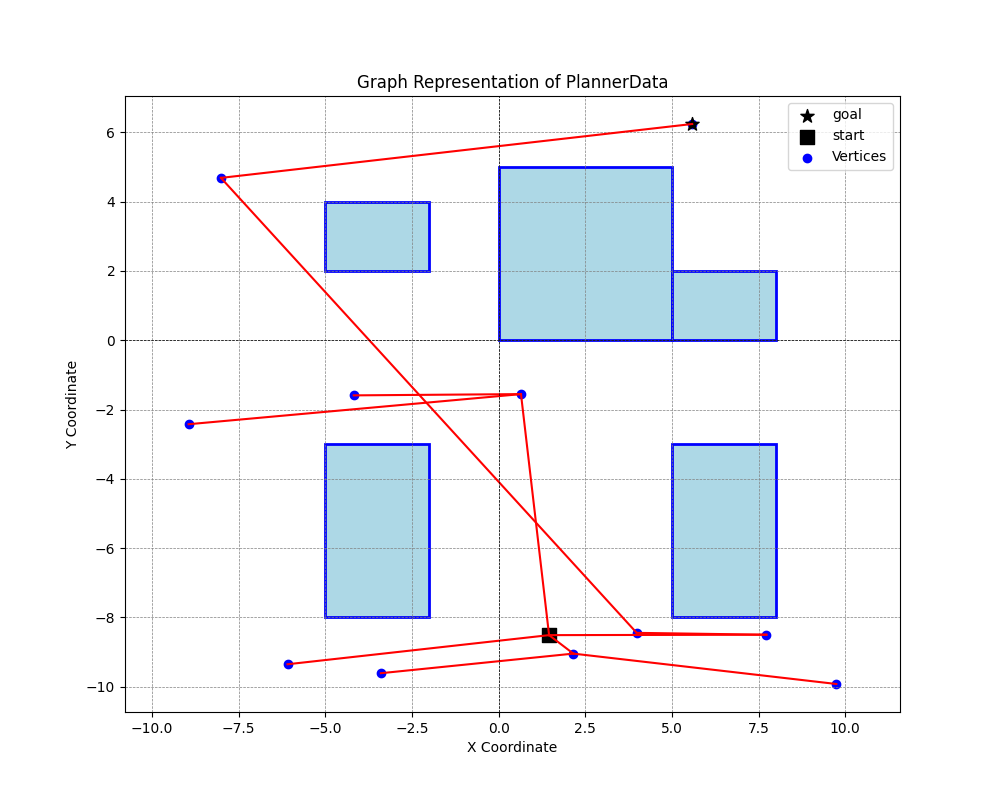
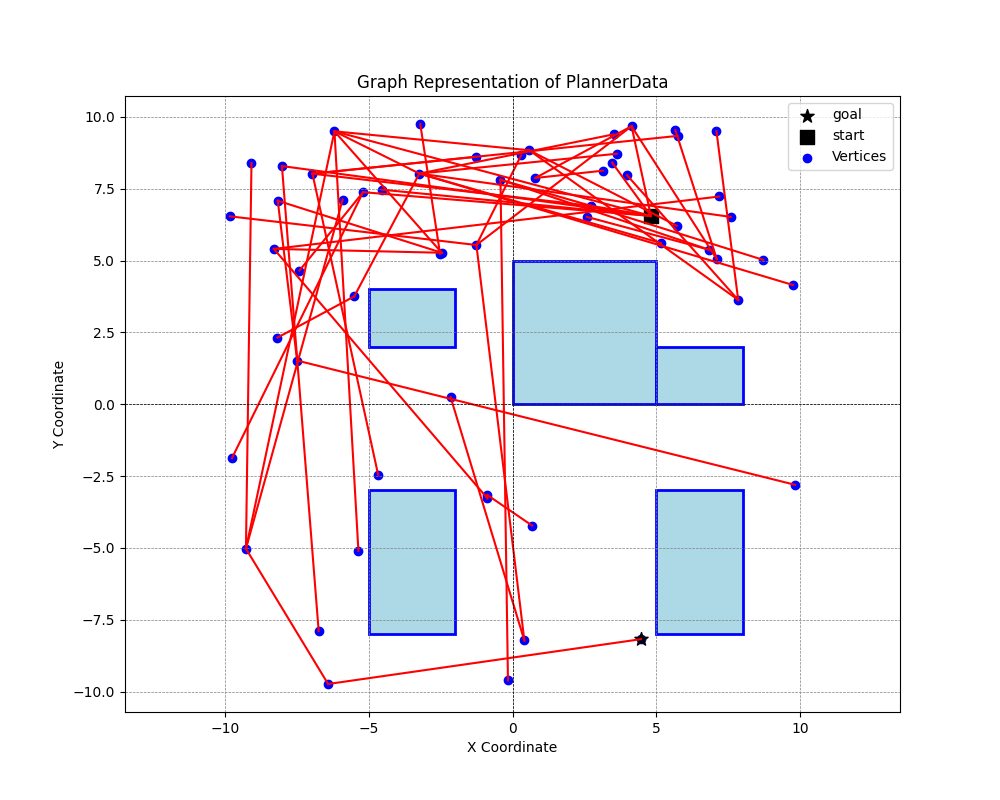
updated sample visualizations and notes

diff --git a/src/visualize.py b/src/visualize.py
@@ -4,190 +4,135 @@ import numpy as np
 
 data = """
 OBSTACLES
-[-10,-3,8,6]
-[2,-3,8,6]
-[-2,-10,3,5]
-[-1,7,5,2]
+[0,0,5,5]
+[5,0,3,2]
+[-5,2,3,2]
+[-5,-8,3,5]
+[5,-8,3,5]
 VERTICES
-(6.1286,9.96771)
-(2.29839,-8.14192)
-(6.54234,-8.42392)
-(7.29384,-5.52884)
-(5.56398,-9.21473)
-(9.02901,-6.25211)
-(5.10615,-6.52125)
-(6.75992,-6.41515)
-(-6.86194,-3.56163)
-(7.64124,-4.84755)
-(0.336037,-2.68571)
-(8.46588,-5.84534)
-(8.79806,-5.2554)
-(9.28287,-3.64216)
-(1.60169,-3.9864)
-(6.46104,-5.32222)
-(6.29002,-4.5267)
-(5.08736,-5.31469)
-(6.11338,-6.59213)
-(6.26703,-8.48126)
-(0.978633,-3.05376)
-(9.51221,-5.20651)
-(2.60682,-4.26794)
-(6.94158,-5.81983)
-(8.59841,-3.53731)
-(6.76768,-8.42559)
-(6.11898,-7.96324)
-(8.59907,-3.81939)
-(5.96986,-5.71895)
-(5.87814,-8.82988)
-(6.92157,-4.45866)
-(4.80425,-6.66832)
-(4.78732,-5.57372)
-(5.472,-3.60008)
-(8.69749,-9.47031)
-(5.20446,-3.77211)
-(7.52818,-4.16062)
-(3.69117,-4.44452)
-(7.4854,-4.2699)
-(9.6867,-9.28099)
-(6.03411,-7.59747)
-(-1.47399,5.00707)
-(-7.12522,9.34394)
-(-6.73268,-7.52026)
-(4.471,-4.49756)
-(-7.14832,-3.51528)
-(-5.60951,-8.56514)
-(-2.80035,-3.85269)
-(-5.62032,-3.77922)
-(-8.93852,-9.27911)
-(-3.08579,-3.43656)
-(-6.01525,-8.25948)
-(-6.5764,-3.61584)
-(-5.22293,-9.78871)
-(2.66332,-3.39152)
-(-4.16126,-4.16673)
-(-7.42711,-7.37977)
-(-9.68892,-3.51182)
-(-0.715141,-1.68699)
-(0.492447,-2.88914)
-(3.8939,-4.83411)
-(0.918087,-1.84117)
-(1.69643,0.949311)
-(-0.346274,-1.91201)
-(-0.126375,-3.82127)
-(-1.77657,-4.69119)
-(9.30133,-9.17499)
-(-1.49486,-0.879237)
-(-3.4238,-3.75593)
-(-1.52986,0.926431)
-(1.9538,-9.78717)
-(4.83144,-9.99153)
-(3.60543,-7.87452)
-(1.92296,-7.6562)
-(2.4612,-7.35118)
-(0.913996,-4.1115)
-(9.49012,-6.83797)
-(8.63757,-8.35217)
-(9.80498,-7.14005)
-(7.92971,-8.60475)
-(8.90892,-8.61286)
-(1.67647,-4.02759)
-(1.72352,-6.55544)
-(3.95942,-3.55486)
-(3.00388,-3.43)
-(1.48853,-6.04512)
-(4.61906,-4.31113)
+(4.45794,-8.17775)
+(4.80789,6.55316)
+(-6.20492,9.49707)
+(-2.47115,5.27061)
+(2.71777,6.90451)
+(4.13475,9.67472)
+(-1.26495,5.54009)
+(0.573649,8.83779)
+(-5.20816,7.37893)
+(0.289094,8.65741)
+(-6.97095,8.02195)
+(-1.27552,8.6111)
+(0.783781,7.87271)
+(-3.25,8.02629)
+(-4.56067,7.46667)
+(-0.42769,7.81265)
+(-2.53104,5.24399)
+(0.403727,-8.2214)
+(-2.16231,0.245641)
+(-5.51622,3.75139)
+(-3.21861,9.75145)
+(-7.5036,1.51871)
+(9.82429,-2.80462)
+(-0.166493,-9.61074)
+(-0.891715,-3.15514)
+(0.673154,-4.2232)
+(-6.42528,-9.73703)
+(-9.77032,-1.87309)
+(-8.17777,7.08158)
+(-8.19072,2.31625)
+(7.84646,3.62896)
+(7.08854,9.50132)
+(3.97394,7.97257)
+(3.45491,8.41127)
+(5.74187,9.33788)
+(3.50956,9.39055)
+(-8.31272,5.40448)
+(7.19487,7.22878)
+(7.10093,5.04694)
+(5.65927,9.53727)
+(5.70871,6.21081)
+(3.62135,8.71644)
+(3.13236,8.12583)
+(6.82285,5.37944)
+(2.57612,6.51991)
+(-9.28474,-5.02695)
+(-9.09224,8.39583)
+(-5.91935,7.1203)
+(-7.42167,4.65272)
+(-9.84151,6.53788)
+(-8.03282,8.28759)
+(9.7526,4.14871)
+(8.71281,5.02421)
+(5.16315,5.60663)
+(7.58834,6.51837)
+(-5.37098,-5.10271)
+(-4.68129,-2.46794)
+(-0.882081,-3.27521)
+(-6.75381,-7.89605)
 GOALS
-(6.1286,9.96771)
+(4.45794,-8.17775)
 STARTS
-(2.29839,-8.14192)
+(4.80789,6.55316)
 EDGES
-0 0 0 0 0 0 0 0 0 0 0 0 0 0 0 0 0 0 0 0 0 0 0 0 0 0 0 0 0 0 0 0 0 0 0 0 0 0 0 0 0 0 0 0 0 0 0 0 0 0 0 0 0 0 0 0 0 0 0 0 0 0 0 0 0 0 0 0 0 0 0 0 0 0 0 0 0 0 0 0 0 0 0 0 0 0 0 
-0 0 1 0 0 1 0 0 0 0 0 0 0 0 0 0 0 0 0 0 0 0 0 0 0 0 0 0 0 0 0 0 0 0 0 0 0 1 0 0 0 0 0 0 0 0 0 0 0 0 0 0 0 0 0 0 0 0 0 0 0 0 0 0 0 0 0 0 0 0 0 0 0 0 0 0 1 0 0 0 0 0 1 0 0 0 0 
-0 0 0 1 0 0 0 1 0 0 0 0 1 0 0 0 0 0 0 0 0 0 0 0 0 0 0 0 0 0 0 0 0 0 0 0 0 0 0 0 0 0 0 0 0 0 0 0 0 0 0 0 0 0 0 0 0 0 0 0 0 0 0 0 0 0 0 0 0 0 0 0 0 0 0 0 0 0 0 0 0 0 0 0 0 0 0 
-0 0 0 0 1 0 0 0 0 0 0 0 0 0 0 0 0 0 0 0 0 0 0 0 0 0 0 1 1 0 0 0 0 0 0 0 0 0 0 0 0 0 0 0 0 0 0 0 0 0 0 0 0 0 0 0 0 0 0 0 0 0 0 0 0 0 0 0 0 0 0 1 0 0 0 0 0 0 0 0 0 0 0 0 0 0 1 
-0 0 0 0 0 0 0 0 0 0 1 0 0 0 0 0 1 0 0 0 0 0 0 0 1 1 0 0 0 0 0 0 0 0 0 0 0 0 0 0 0 0 0 0 0 0 0 0 0 0 0 0 0 0 0 0 0 0 0 0 0 0 0 0 0 0 0 0 0 0 0 0 0 0 0 0 0 0 0 0 0 0 0 0 0 0 0 
-0 0 0 0 0 0 1 0 0 0 0 0 0 0 0 0 0 0 0 0 0 0 0 0 0 0 0 0 0 0 0 0 0 0 0 0 0 0 0 0 0 0 0 0 0 0 0 0 0 0 1 0 0 0 0 0 0 0 0 0 0 0 0 0 0 0 0 0 0 0 0 0 0 0 0 0 0 0 0 0 0 0 0 1 0 0 0 
-0 0 0 0 0 0 0 0 0 0 0 0 0 0 0 0 0 0 1 0 0 0 0 0 0 0 0 0 0 0 0 0 0 0 0 0 0 0 0 0 0 0 0 0 0 0 0 0 0 0 0 0 0 0 0 0 0 0 0 0 0 0 0 1 0 0 0 0 0 0 0 0 0 1 0 0 0 0 0 0 0 1 0 0 0 0 0 
-0 0 0 0 0 0 0 0 0 0 0 0 0 0 0 0 0 0 0 0 0 0 0 0 0 0 0 0 0 0 0 1 0 0 0 0 0 0 0 0 0 0 0 0 0 0 0 0 0 0 0 0 0 0 0 0 0 0 0 0 0 0 0 0 0 0 0 0 0 0 0 0 0 0 0 0 0 0 0 0 0 0 0 0 0 0 0 
-0 0 0 0 0 0 0 0 0 1 0 0 0 0 0 0 0 0 0 0 0 0 0 0 0 0 0 0 0 0 0 0 0 0 0 0 0 0 0 0 0 0 0 0 0 0 0 0 0 0 0 0 0 1 0 0 0 0 0 0 0 0 0 0 0 0 0 0 0 0 0 0 0 0 0 0 0 0 0 0 0 0 0 0 0 0 0 
-0 0 0 0 0 0 0 0 0 0 0 0 0 1 0 0 0 0 0 1 0 0 0 0 0 0 0 0 0 0 0 0 0 0 0 0 0 0 0 0 0 0 0 0 0 0 0 0 0 0 0 0 0 0 1 0 0 0 0 0 0 0 0 0 0 0 0 0 0 0 0 0 0 0 0 0 0 0 0 0 0 0 0 0 0 0 0 
-0 0 0 0 0 0 0 0 0 0 0 1 0 0 0 0 0 0 0 0 0 0 0 0 0 0 0 0 0 0 0 0 0 0 0 0 0 0 0 0 0 0 0 1 0 0 0 0 0 0 0 0 0 0 0 0 0 0 0 0 0 0 1 0 0 0 0 0 0 0 0 0 0 0 0 0 0 0 0 0 0 0 0 0 0 0 0 
-0 0 0 0 0 0 0 0 0 0 0 0 0 0 0 0 0 1 0 0 0 0 0 0 0 0 0 0 0 0 0 0 0 0 0 0 0 0 0 0 0 0 0 0 0 0 0 0 0 0 0 0 0 0 0 0 0 0 0 0 0 0 0 0 0 0 0 0 0 0 0 0 1 0 0 0 0 0 1 0 0 0 0 0 0 0 0 
-0 0 0 0 0 0 0 0 0 0 0 0 0 0 0 0 0 0 0 0 0 0 0 0 0 0 0 0 0 1 0 0 0 0 0 0 1 0 0 0 0 0 0 0 0 0 0 0 0 0 0 0 0 0 0 0 0 0 0 0 0 0 0 0 0 0 0 0 0 0 0 0 0 0 0 0 0 0 0 0 0 0 0 0 0 0 0 
-0 0 0 0 0 0 0 0 0 0 0 0 0 0 0 0 0 0 0 0 0 0 0 0 0 0 0 0 0 0 0 0 0 0 0 0 0 0 0 0 0 0 0 0 0 0 0 0 0 0 0 0 0 0 0 0 0 0 0 0 0 0 0 0 0 0 0 0 0 0 0 0 0 0 0 0 0 0 0 0 0 0 0 0 0 0 0 
-0 0 0 0 0 0 0 0 0 0 0 0 0 0 0 1 0 0 0 0 0 0 0 0 0 0 0 0 0 0 0 0 0 0 0 0 0 0 0 0 0 0 0 0 0 0 0 0 0 0 0 0 0 0 0 0 0 0 0 0 0 0 0 0 0 0 0 0 0 0 0 0 0 0 0 0 0 0 0 0 0 0 0 0 0 0 0 
-0 0 0 0 0 0 0 0 0 0 0 0 0 0 0 0 0 0 0 0 0 0 0 0 0 0 0 0 0 0 0 0 0 0 0 0 0 0 0 0 0 0 0 0 0 0 0 1 0 0 0 0 0 0 0 0 0 0 0 0 0 0 0 0 0 0 0 0 0 0 0 0 0 0 0 0 0 0 0 0 0 0 0 0 0 0 0 
-0 0 0 0 0 0 0 0 0 0 0 0 0 0 0 0 0 0 0 0 0 0 0 0 0 0 0 0 0 0 0 0 0 0 0 0 0 0 0 0 0 0 0 0 0 0 0 0 0 0 0 0 0 0 0 0 0 0 0 0 0 0 0 0 0 0 0 0 0 0 0 0 0 0 0 0 0 0 0 0 0 0 0 0 0 0 0 
-0 0 0 0 0 0 0 0 0 0 0 0 0 0 0 0 0 0 0 0 0 0 0 0 0 0 0 0 0 0 0 0 0 0 0 0 0 0 0 0 0 0 0 0 0 0 0 0 0 0 0 0 0 0 0 0 0 0 0 0 0 0 0 0 0 0 0 0 0 0 0 0 0 0 0 0 0 0 0 0 0 0 0 0 0 0 0 
-0 0 0 0 0 0 0 0 0 0 0 0 0 0 0 0 0 0 0 0 0 0 0 0 0 0 0 0 0 0 0 0 0 0 0 0 0 0 0 0 0 0 0 0 0 0 0 0 0 0 0 0 0 0 0 0 0 0 0 0 0 0 0 0 0 0 0 0 0 0 0 0 0 0 0 0 0 0 0 0 0 0 0 0 0 0 0 
-0 0 0 0 0 0 0 0 0 0 0 0 0 0 0 0 0 0 0 0 0 0 0 0 0 0 0 0 0 0 1 0 0 0 0 0 0 0 0 0 0 0 0 0 0 0 0 0 0 0 0 0 0 0 0 0 0 0 0 0 0 0 0 0 0 0 0 0 0 0 0 0 0 0 0 0 0 0 0 0 0 0 0 0 0 0 0 
-0 0 0 0 0 0 0 0 0 0 0 0 0 0 0 0 0 0 0 0 0 1 0 0 0 0 0 0 0 0 0 0 0 0 0 0 0 0 0 0 0 0 0 0 0 0 0 0 0 0 0 0 0 0 0 0 0 0 0 0 0 0 0 0 0 0 0 0 0 0 0 0 0 0 0 0 0 0 0 1 0 0 0 0 0 0 0 
-0 0 0 0 0 0 0 0 0 0 0 0 0 0 0 0 0 0 0 0 0 0 0 0 0 0 0 0 0 0 0 0 0 0 0 0 0 0 0 0 0 0 0 0 0 0 0 0 0 0 0 0 0 0 0 0 0 0 0 0 0 0 0 0 0 0 0 0 0 0 0 0 0 0 0 0 0 0 0 0 0 0 0 0 0 0 0 
-0 0 0 0 0 0 0 0 0 0 0 0 0 0 0 0 0 0 0 0 0 0 0 1 0 0 0 0 0 0 0 0 0 0 0 0 0 0 0 1 0 0 0 0 1 0 0 0 0 0 0 0 0 0 0 0 0 0 0 0 1 0 0 0 0 0 0 0 0 1 0 0 0 0 0 0 0 0 0 0 0 0 0 0 0 0 0 
-0 0 0 0 0 0 0 0 0 0 0 0 0 0 0 0 0 0 0 0 0 0 0 0 0 0 0 0 0 0 0 0 0 0 0 0 0 0 0 0 0 0 0 0 0 0 0 0 0 0 0 0 0 0 0 0 0 0 0 0 0 0 0 0 0 0 0 0 0 0 0 0 0 0 0 0 0 0 0 0 0 0 0 0 1 0 0 
-0 0 0 0 0 0 0 0 0 0 0 0 0 0 0 0 0 0 0 0 0 0 0 0 0 0 0 0 0 0 0 0 0 0 0 0 0 0 0 0 0 0 0 0 0 0 0 0 0 0 0 0 0 0 0 0 0 0 0 0 0 0 0 0 0 0 0 0 0 0 0 0 0 0 0 0 0 0 0 0 0 0 0 0 0 0 0 
-0 0 0 0 0 0 0 0 0 0 0 0 0 0 0 0 0 0 0 0 0 0 0 0 0 0 1 0 0 0 0 0 0 0 0 0 0 0 0 0 0 0 0 0 0 0 0 0 0 0 0 0 0 0 0 0 0 0 0 0 0 0 0 0 0 0 0 0 0 0 0 0 0 0 0 0 0 0 0 0 0 0 0 0 0 0 0 
-0 0 0 0 0 0 0 0 0 0 0 0 0 0 0 0 0 0 0 0 0 0 0 0 0 0 0 0 0 0 0 0 0 0 0 0 0 0 0 0 0 0 0 0 0 0 0 0 0 0 0 0 0 0 0 0 0 0 0 0 0 0 0 0 0 0 0 0 0 0 0 0 0 0 0 0 0 0 0 0 0 0 0 0 0 1 0 
-0 0 0 0 0 0 0 0 0 0 0 0 0 0 0 0 0 0 0 0 0 0 0 0 0 0 0 0 0 0 0 0 0 0 0 0 0 0 0 0 0 0 0 0 0 0 0 0 0 0 0 0 1 0 0 0 0 0 0 0 0 0 0 0 0 0 0 0 0 0 0 0 0 0 0 0 0 0 0 0 0 0 0 0 0 0 0 
-0 0 0 0 0 0 0 0 0 0 0 0 0 0 0 0 0 0 0 0 0 0 0 0 0 0 0 0 0 0 0 0 0 0 0 0 0 0 0 0 0 0 0 0 0 0 0 0 0 0 0 0 0 0 0 0 0 0 0 0 0 0 0 0 1 0 1 0 0 0 0 0 0 0 0 0 0 0 0 0 0 0 0 0 0 0 0 
-0 0 0 0 0 0 0 0 0 0 0 0 0 0 0 0 0 0 0 0 0 0 0 0 0 0 0 0 0 0 0 0 0 0 1 0 0 0 0 0 0 0 0 0 0 0 0 0 0 0 0 0 0 0 0 0 0 0 0 0 0 0 0 0 0 0 0 0 0 0 0 0 0 0 0 0 0 0 0 0 0 0 0 0 0 0 0 
-0 0 0 0 0 0 0 0 0 0 0 0 0 0 0 0 0 0 0 0 0 0 0 0 0 0 0 0 0 0 0 0 0 0 0 0 0 0 0 0 0 0 0 0 0 0 0 0 0 0 0 0 0 0 0 0 0 0 0 0 0 0 0 0 0 0 0 0 1 0 0 0 0 0 0 0 0 0 0 0 0 0 0 0 0 0 0 
-0 0 0 0 0 0 0 0 0 0 0 0 0 0 0 0 0 0 0 0 0 0 0 0 0 0 0 0 0 0 0 0 0 0 0 0 0 0 0 0 0 0 0 0 0 0 0 0 0 0 0 0 0 0 0 0 0 0 0 0 0 0 0 0 0 0 0 0 0 0 0 0 0 0 0 0 0 0 0 0 0 0 0 0 0 0 0 
-0 0 0 0 0 0 0 0 0 0 0 0 0 0 0 0 0 0 0 0 0 0 0 0 0 0 0 0 0 0 0 0 0 1 0 0 0 0 0 0 0 0 0 0 0 0 0 0 0 0 0 0 0 0 0 0 0 0 0 0 0 0 0 0 0 0 0 0 0 0 0 0 0 0 0 0 0 0 0 0 0 0 0 0 0 0 0 
-0 0 0 0 0 0 0 0 0 0 0 0 0 0 0 0 0 0 0 0 0 0 0 0 0 0 0 0 0 0 0 0 0 0 0 0 0 0 0 0 0 0 0 0 0 0 0 0 0 0 0 0 0 0 0 0 0 0 0 0 0 0 0 0 0 0 0 0 0 0 0 0 0 0 0 0 0 0 0 0 0 0 0 0 0 0 0 
-0 0 0 0 0 0 0 0 0 0 0 0 0 0 0 0 0 0 0 0 0 0 0 0 0 0 0 0 0 0 0 0 0 0 0 1 0 0 0 0 0 0 0 0 0 0 0 0 0 0 0 0 0 0 0 0 0 0 0 0 0 0 0 0 0 0 0 0 0 0 0 0 0 0 0 0 0 0 0 0 0 0 0 0 0 0 0 
-0 0 0 0 0 0 0 0 0 0 0 0 0 0 0 0 0 0 0 0 0 0 0 0 0 0 0 0 0 0 0 0 0 0 0 0 0 0 0 0 0 0 0 0 0 0 0 0 0 0 0 0 0 0 0 0 0 0 0 0 0 0 0 0 0 0 0 0 0 0 0 0 0 0 0 0 0 0 0 0 0 0 0 0 0 0 0 
-0 0 0 0 0 0 0 0 0 0 0 0 0 0 0 0 0 0 0 0 0 0 0 0 0 0 0 0 0 0 0 0 0 0 0 0 0 0 0 0 0 0 0 0 0 0 0 0 0 0 0 0 0 0 0 0 0 0 0 0 0 0 0 0 0 0 0 0 0 0 0 0 0 0 0 0 0 0 0 0 0 0 0 0 0 0 0 
-0 0 0 0 0 0 0 0 0 0 0 0 0 0 0 0 0 0 0 0 0 0 0 0 0 0 0 0 0 0 0 0 0 0 0 0 0 0 1 0 0 0 0 0 0 0 0 0 0 0 0 0 0 0 0 0 0 0 0 0 0 0 0 0 0 0 0 0 0 0 0 0 0 0 0 0 0 0 0 0 0 0 0 0 0 0 0 
-0 0 0 0 0 0 0 0 0 0 0 0 0 0 0 0 0 0 0 0 0 0 0 0 0 0 0 0 0 0 0 0 0 0 0 0 0 0 0 0 0 0 0 0 0 0 0 0 0 0 0 0 0 0 0 0 0 0 0 0 0 0 0 0 0 0 0 0 0 0 0 0 0 0 0 0 0 0 0 0 0 0 0 0 0 0 0 
-0 0 0 0 0 0 0 0 0 0 0 0 0 0 0 0 0 0 0 0 0 0 0 0 0 0 0 0 0 0 0 0 0 0 0 0 0 0 0 0 1 0 0 0 0 0 0 0 0 0 0 0 0 0 0 0 0 0 0 0 0 0 0 0 0 0 0 0 0 0 0 0 0 0 0 0 0 0 0 0 0 0 0 0 0 0 0 
-0 0 0 0 0 0 0 0 0 0 0 0 0 0 0 0 0 0 0 0 0 0 0 0 0 0 0 0 0 0 0 0 0 0 0 0 0 0 0 0 0 0 0 0 0 0 0 0 0 0 0 0 0 0 0 0 0 0 0 0 0 0 0 0 0 0 0 0 0 0 0 0 0 0 0 0 0 0 0 0 0 0 0 0 0 0 0 
-0 0 0 0 0 0 0 0 0 0 0 0 0 0 0 0 0 0 0 0 0 0 0 0 0 0 0 0 0 0 0 0 0 0 0 0 0 0 0 0 0 0 1 0 0 0 0 0 0 0 0 0 0 0 0 0 0 0 1 0 0 0 0 0 0 0 0 0 0 0 0 0 0 0 0 0 0 0 0 0 0 0 0 0 0 0 0 
-1 0 0 0 0 0 0 0 0 0 0 0 0 0 0 0 0 0 0 0 0 0 0 0 0 0 0 0 0 0 0 0 0 0 0 0 0 0 0 0 0 0 0 0 0 0 0 0 0 0 0 0 0 0 0 0 0 0 0 0 0 0 0 0 0 0 0 0 0 0 0 0 0 0 0 0 0 0 0 0 0 0 0 0 0 0 0 
-0 0 0 0 0 0 0 0 0 0 0 0 0 0 0 0 0 0 0 0 0 0 0 0 0 0 0 0 0 0 0 0 0 0 0 0 0 0 0 0 0 0 0 0 0 1 1 0 0 0 0 0 0 0 0 0 0 0 0 0 0 1 0 0 0 0 0 0 0 0 0 0 0 0 0 0 0 0 0 0 0 0 0 0 0 0 0 
-0 0 0 0 0 0 0 0 1 0 0 0 0 0 0 0 0 0 0 0 0 0 0 0 0 0 0 0 0 0 0 0 0 0 0 0 0 0 0 0 0 0 0 0 0 0 0 0 0 0 0 0 0 0 0 0 0 0 0 1 0 0 0 0 0 0 0 0 0 0 1 0 0 0 0 1 0 0 0 0 0 0 0 0 0 0 0 
-0 0 0 0 0 0 0 0 0 0 0 0 0 0 0 0 0 0 0 0 0 0 0 0 0 0 0 0 0 0 0 0 0 0 0 0 0 0 0 0 0 0 0 0 0 0 0 0 0 0 0 0 0 0 0 0 0 0 0 0 0 0 0 0 0 1 0 0 0 0 0 0 0 0 0 0 0 0 0 0 0 0 0 0 0 0 0 
-0 0 0 0 0 0 0 0 0 0 0 0 0 0 0 0 0 0 0 0 0 0 0 0 0 0 0 0 0 0 0 0 0 0 0 0 0 0 0 0 0 0 0 0 0 0 0 0 0 0 0 0 0 0 0 0 0 0 0 0 0 0 0 0 0 0 0 0 0 0 0 0 0 0 0 0 0 0 0 0 0 0 0 0 0 0 0 
-0 0 0 0 0 0 0 0 0 0 0 0 0 0 0 0 0 0 0 0 0 0 0 0 0 0 0 0 0 0 0 0 0 0 0 0 0 0 0 0 0 0 0 0 0 0 0 0 1 1 0 0 0 0 0 0 0 0 0 0 0 0 0 0 0 0 0 0 0 0 0 0 0 0 0 0 0 0 0 0 0 0 0 0 0 0 0 
-0 0 0 0 0 0 0 0 0 0 0 0 0 0 0 0 0 0 0 0 0 0 0 0 0 0 0 0 0 0 0 0 0 0 0 0 0 0 0 0 0 0 0 0 0 0 0 0 0 0 0 0 0 0 0 0 0 0 0 0 0 0 0 0 0 0 0 0 0 0 0 0 0 0 0 0 0 0 0 0 0 0 0 0 0 0 0 
-0 0 0 0 0 0 0 0 0 0 0 0 0 0 0 0 0 0 0 0 0 0 0 0 0 0 0 0 0 0 0 0 0 0 0 0 0 0 0 0 0 0 0 0 0 0 0 0 0 0 0 0 0 0 0 0 1 0 0 0 0 0 0 0 0 0 0 0 0 0 0 0 0 0 0 0 0 0 0 0 0 0 0 0 0 0 0 
-0 0 0 0 0 0 0 0 0 0 0 0 0 0 0 0 0 0 0 0 0 0 0 0 0 0 0 0 0 0 0 0 0 0 0 0 0 0 0 0 0 0 0 0 0 0 0 0 0 0 0 1 0 0 0 0 0 0 0 0 0 0 0 0 0 0 0 0 0 0 0 0 0 0 0 0 0 0 0 0 0 0 0 0 0 0 0 
-0 0 0 0 0 0 0 0 0 0 0 0 0 0 0 0 0 0 0 0 0 0 0 0 0 0 0 0 0 0 0 0 0 0 0 0 0 0 0 0 0 0 0 0 0 0 0 0 0 0 0 0 0 0 0 0 0 0 0 0 0 0 0 0 0 0 0 0 0 0 0 0 0 0 0 0 0 0 0 0 0 0 0 0 0 0 0 
-0 0 0 0 0 0 0 0 0 0 0 0 0 0 0 0 0 0 0 0 0 0 0 0 0 0 0 0 0 0 0 0 0 0 0 0 0 0 0 0 0 0 0 0 0 0 0 0 0 0 0 0 0 0 0 0 0 0 0 0 0 0 0 0 0 0 0 0 0 0 0 0 0 0 0 0 0 0 0 0 0 0 0 0 0 0 0 
-0 0 0 0 0 0 0 0 0 0 0 0 0 0 0 0 0 0 0 0 0 0 0 0 0 0 0 0 0 0 0 0 0 0 0 0 0 0 0 0 0 0 0 0 0 0 0 0 0 0 0 0 0 0 0 0 0 1 0 0 0 0 0 0 0 0 0 0 0 0 0 0 0 0 0 0 0 0 0 0 0 0 0 0 0 0 0 
-0 0 0 0 0 0 0 0 0 0 0 0 0 0 0 0 0 0 0 0 0 0 0 0 0 0 0 0 0 0 0 0 0 0 0 0 0 0 0 0 0 0 0 0 0 0 0 0 0 0 0 0 0 0 0 1 0 0 0 0 0 0 0 0 0 0 0 0 0 0 0 0 0 0 0 0 0 0 0 0 0 0 0 0 0 0 0 
-0 0 0 0 0 0 0 0 0 0 0 0 0 0 0 0 0 0 0 0 0 0 0 0 0 0 0 0 0 0 0 0 0 0 0 0 0 0 0 0 0 0 0 0 0 0 0 0 0 0 0 0 0 0 0 0 0 0 0 0 0 0 0 0 0 0 0 0 0 0 0 0 0 0 0 0 0 0 0 0 0 0 0 0 0 0 0 
-0 0 0 0 0 0 0 0 0 0 0 0 0 0 0 0 0 0 0 0 0 0 0 0 0 0 0 0 0 0 0 0 0 0 0 0 0 0 0 0 0 0 0 0 0 0 0 0 0 0 0 0 0 0 0 0 0 0 0 0 0 0 0 0 0 0 0 0 0 0 0 0 0 0 0 0 0 0 0 0 0 0 0 0 0 0 0 
-0 0 0 0 0 0 0 0 0 0 0 0 0 0 0 0 0 0 0 0 0 0 0 0 0 0 0 0 0 0 0 0 0 0 0 0 0 0 0 0 0 0 0 0 0 0 0 0 0 0 0 0 0 0 0 0 0 0 0 0 0 0 0 0 0 0 0 0 0 0 0 0 0 0 0 0 0 0 0 0 0 0 0 0 0 0 0 
-0 0 0 0 0 0 0 0 0 0 0 0 0 0 0 0 0 0 0 0 0 0 0 0 0 0 0 0 0 0 0 0 0 0 0 0 0 0 0 0 0 0 0 0 0 0 0 0 0 0 0 0 0 0 0 0 0 0 0 0 0 0 0 0 0 0 0 0 0 0 0 0 0 0 0 0 0 0 0 0 0 0 0 0 0 0 0 
-0 0 0 0 0 0 0 0 0 0 0 0 0 0 0 0 0 0 0 0 0 0 0 0 0 0 0 0 0 0 0 0 0 0 0 0 0 0 0 0 0 0 0 0 0 0 0 0 0 0 0 0 0 0 0 0 0 0 0 0 0 0 0 0 0 0 0 0 0 0 0 0 0 0 0 0 0 0 0 0 0 0 0 0 0 0 0 
-0 0 0 0 0 0 0 0 0 0 0 0 0 0 0 0 0 0 0 0 1 0 0 0 0 0 0 0 0 0 0 0 0 0 0 0 0 0 0 0 0 0 0 0 0 0 0 0 0 0 0 0 0 0 0 0 0 0 0 0 0 0 0 0 0 0 0 0 0 0 0 0 0 0 0 0 0 0 0 0 0 0 0 0 0 0 0 
-0 0 0 0 0 0 0 0 0 0 0 0 0 0 0 0 0 0 0 0 0 0 0 0 0 0 0 0 0 0 0 0 0 0 0 0 0 0 0 0 0 0 0 0 0 0 0 0 0 0 0 0 0 0 0 0 0 0 0 0 0 0 0 0 0 0 0 0 0 0 0 0 0 0 0 0 0 0 0 0 0 0 0 0 0 0 0 
-0 0 0 0 0 0 0 0 0 0 0 0 0 0 0 0 0 0 0 0 0 0 0 0 0 0 0 0 0 0 0 0 0 0 0 0 0 0 0 0 0 0 0 0 0 0 0 0 0 0 0 0 0 0 0 0 0 0 0 0 0 0 0 0 0 0 0 0 0 0 0 0 0 0 0 0 0 0 0 0 0 0 0 0 0 0 0 
-0 0 0 0 0 0 0 0 0 0 0 0 0 0 0 0 0 0 0 0 0 0 0 0 0 0 0 0 0 0 0 0 0 0 0 0 0 0 0 0 0 0 0 0 0 0 0 0 0 0 0 0 0 0 0 0 0 0 0 0 0 0 0 0 0 0 0 0 0 0 0 0 0 0 0 0 0 0 0 0 0 0 0 0 0 0 0 
-0 0 0 0 0 0 0 0 0 0 0 0 0 0 0 0 0 0 0 0 0 0 0 0 0 0 0 0 0 0 0 0 0 0 0 0 0 0 0 0 0 0 0 0 0 0 0 0 0 0 0 0 0 0 0 0 0 0 0 0 0 0 0 0 0 0 0 0 0 0 0 0 0 0 0 0 0 0 0 0 0 0 0 0 0 0 0 
-0 0 0 0 0 0 0 0 0 0 0 0 0 0 0 0 0 0 0 0 0 0 0 0 0 0 0 0 0 0 0 0 0 0 0 0 0 0 0 0 0 0 0 0 0 0 0 0 0 0 0 0 0 0 0 0 0 0 0 0 0 0 0 0 0 0 0 0 0 0 0 0 0 0 0 0 0 0 0 0 0 0 0 0 0 0 0 
-0 0 0 0 0 0 0 0 0 0 0 0 0 0 0 0 0 0 0 0 0 0 0 0 0 0 0 0 0 0 0 0 0 0 0 0 0 0 0 0 0 0 0 0 0 0 0 0 0 0 0 0 0 0 0 0 0 0 0 0 0 0 0 0 0 0 0 1 0 0 0 0 0 0 0 0 0 0 0 0 0 0 0 0 0 0 0 
-0 0 0 0 0 0 0 0 0 0 0 0 0 0 0 0 0 0 0 0 0 0 0 0 0 0 0 0 0 0 0 0 0 0 0 0 0 0 0 0 0 0 0 0 0 0 0 0 0 0 0 0 0 0 0 0 0 0 0 0 0 0 0 0 0 0 0 0 0 0 0 0 0 0 0 0 0 0 0 0 1 0 0 0 0 0 0 
-0 0 0 0 0 0 0 0 0 0 0 0 0 0 0 0 0 0 0 0 0 0 0 0 0 0 0 0 0 0 0 0 0 0 0 0 0 0 0 0 0 0 0 0 0 0 0 0 0 0 0 0 0 0 0 0 0 0 0 0 0 0 0 0 0 0 0 0 0 0 0 0 0 0 0 0 0 0 0 0 0 0 0 0 0 0 0 
-0 0 0 0 0 0 0 0 0 0 0 0 0 0 0 0 0 0 0 0 0 0 0 0 0 0 0 0 0 0 0 0 0 0 0 0 0 0 0 0 0 0 0 0 0 0 0 0 0 0 0 0 0 0 0 0 0 0 0 0 0 0 0 0 0 0 0 0 0 0 0 0 0 0 0 0 0 0 0 0 0 0 0 0 0 0 0 
-0 0 0 0 0 0 0 0 0 0 0 0 0 0 0 0 0 0 0 0 0 0 0 0 0 0 0 0 0 0 0 0 0 0 0 0 0 0 0 0 0 0 0 0 0 0 0 0 0 0 0 0 0 0 0 0 0 0 0 0 0 0 0 0 0 0 0 0 0 0 0 0 0 0 1 0 0 0 0 0 0 0 0 0 0 0 0 
-0 0 0 0 0 0 0 0 0 0 0 0 0 0 0 0 0 0 0 0 0 0 0 0 0 0 0 0 0 0 0 0 0 0 0 0 0 0 0 0 0 0 0 0 0 0 0 0 0 0 0 0 0 0 0 0 0 0 0 0 0 0 0 0 0 0 0 0 0 0 0 0 0 0 0 0 0 0 0 0 0 0 0 0 0 0 0 
-0 0 0 0 0 0 0 0 0 0 0 0 0 0 0 0 0 0 0 0 0 0 0 0 0 0 0 0 0 0 0 0 0 0 0 0 0 0 0 0 0 0 0 0 0 0 0 0 0 0 0 0 0 0 0 0 0 0 0 0 0 0 0 0 0 0 0 0 0 0 0 0 0 0 0 0 0 0 0 0 0 0 0 0 0 0 0 
-0 0 0 0 0 0 0 0 0 0 0 0 0 0 0 0 0 0 0 0 0 0 0 0 0 0 0 0 0 0 0 0 0 0 0 0 0 0 0 0 0 0 0 0 0 0 0 0 0 0 0 0 0 0 0 0 0 0 0 0 0 0 0 0 0 0 0 0 0 0 0 0 0 0 0 0 0 0 0 0 0 0 0 0 0 0 0 
-0 0 0 0 0 0 0 0 0 0 0 0 0 0 0 0 0 0 0 0 0 0 0 0 0 0 0 0 0 0 0 0 0 0 0 0 0 0 0 0 0 0 0 0 0 0 0 0 0 0 0 0 0 0 0 0 0 0 0 0 0 0 0 0 0 0 0 0 0 0 0 0 0 0 0 0 0 0 0 0 0 0 0 0 0 0 0 
-0 0 0 0 0 0 0 0 0 0 0 0 0 0 0 0 0 0 0 0 0 0 0 0 0 0 0 0 0 0 0 0 0 0 0 0 0 0 0 0 0 1 0 0 0 0 0 0 0 0 0 0 0 0 0 0 0 0 0 0 0 0 0 0 0 0 0 0 0 0 0 0 0 0 0 0 0 0 0 0 0 0 0 0 0 0 0 
-0 0 0 0 0 0 0 0 0 0 0 0 0 0 1 0 0 0 0 0 0 0 1 0 0 0 0 0 0 0 0 0 0 0 0 0 0 0 0 0 0 0 0 0 0 0 0 0 0 0 0 0 0 0 0 0 0 0 0 0 0 0 0 0 0 0 0 0 0 0 0 0 0 0 0 0 0 1 0 0 0 0 0 0 0 0 0 
-0 0 0 0 0 0 0 0 0 0 0 0 0 0 0 0 0 0 0 0 0 0 0 0 0 0 0 0 0 0 0 0 0 0 0 0 0 0 0 0 0 0 0 0 0 0 0 0 0 0 0 0 0 0 0 0 0 0 0 0 0 0 0 0 0 0 0 0 0 0 0 0 0 0 0 0 0 0 0 0 0 0 0 0 0 0 0 
-0 0 0 0 0 0 0 0 0 0 0 0 0 0 0 0 0 0 0 0 0 0 0 0 0 0 0 0 0 0 0 0 0 0 0 0 0 0 0 0 0 0 0 0 0 0 0 0 0 0 0 0 0 0 0 0 0 0 0 0 0 0 0 0 0 0 0 0 0 0 0 0 0 0 0 0 0 0 0 0 0 0 0 0 0 0 0 
-0 0 0 0 0 0 0 0 0 0 0 0 0 0 0 0 0 0 0 0 0 0 0 0 0 0 0 0 0 0 0 0 0 0 0 0 0 0 0 0 0 0 0 0 0 0 0 0 0 0 0 0 0 0 0 0 0 0 0 0 0 0 0 0 0 0 0 0 0 0 0 0 0 0 0 0 0 0 0 0 0 0 0 0 0 0 0 
-0 0 0 0 0 0 0 0 0 0 0 0 0 0 0 0 0 0 0 0 0 0 0 0 0 0 0 0 0 0 0 0 0 0 0 0 0 0 0 0 0 0 0 0 0 0 0 0 0 0 0 0 0 0 0 0 0 0 0 0 0 0 0 0 0 0 0 0 0 0 0 0 0 0 0 0 0 0 0 0 0 0 0 0 0 0 0 
-0 0 0 0 0 0 0 0 0 0 0 0 0 0 0 0 0 0 0 0 0 0 0 0 0 0 0 0 0 0 0 0 1 0 0 0 0 0 0 0 0 0 0 0 0 0 0 0 0 0 0 0 0 0 0 0 0 0 0 0 0 0 0 0 0 0 0 0 0 0 0 0 0 0 0 0 0 0 0 0 0 0 0 0 0 0 0 
-0 0 0 0 0 0 0 0 0 0 0 0 0 0 0 0 0 0 0 0 0 0 0 0 0 0 0 0 0 0 0 0 0 0 0 0 0 0 0 0 0 0 0 0 0 0 0 0 0 0 0 0 0 0 0 0 0 0 0 0 0 0 0 0 0 0 0 0 0 0 0 0 0 0 0 0 0 0 0 0 0 0 0 0 0 0 0 
-0 0 0 0 0 0 0 0 0 0 0 0 0 0 0 0 0 0 0 0 0 0 0 0 0 0 0 0 0 0 0 0 0 0 0 0 0 0 0 0 0 0 0 0 0 0 0 0 0 0 0 0 0 0 0 0 0 0 0 0 0 0 0 0 0 0 0 0 0 0 0 0 0 0 0 0 0 0 0 0 0 0 0 0 0 0 0 
-0 0 0 0 0 0 0 0 0 0 0 0 0 0 0 0 0 0 0 0 0 0 0 0 0 0 0 0 0 0 0 0 0 0 0 0 0 0 0 0 0 0 0 0 0 0 0 0 0 0 0 0 0 0 0 0 0 0 0 0 0 0 0 0 0 0 0 0 0 0 0 0 0 0 0 0 0 0 0 0 0 0 0 0 0 0 0 
-0 0 0 0 0 0 0 0 0 0 0 0 0 0 0 0 0 0 0 0 0 0 0 0 0 0 0 0 0 0 0 0 0 0 0 0 0 0 0 0 0 0 0 0 0 0 0 0 0 0 0 0 0 0 0 0 0 0 0 0 0 0 0 0 0 0 0 0 0 0 0 0 0 0 0 0 0 0 0 0 0 0 0 0 0 0 0 
-0 0 0 0 0 0 0 0 0 0 0 0 0 0 0 0 0 0 0 0 0 0 0 0 0 0 0 0 0 0 0 0 0 0 0 0 0 0 0 0 0 0 0 0 0 0 0 0 0 0 0 0 0 0 0 0 0 0 0 0 0 0 0 0 0 0 0 0 0 0 0 0 0 0 0 0 0 0 0 0 0 0 0 0 0 0 0 
+0 0 0 0 0 0 0 0 0 0 0 0 0 0 0 0 0 0 0 0 0 0 0 0 0 0 0 0 0 0 0 0 0 0 0 0 0 0 0 0 0 0 0 0 0 0 0 0 0 0 0 0 0 0 0 0 0 0 0 
+0 0 1 0 1 1 0 0 1 0 0 0 0 0 1 0 0 0 0 0 0 0 0 0 0 0 0 0 0 0 0 0 0 1 0 0 0 0 0 0 0 0 0 0 0 0 0 0 0 0 1 0 0 0 0 0 0 0 0 
+0 0 0 1 0 0 0 1 0 0 0 0 0 1 0 0 0 0 0 0 0 0 0 0 0 0 0 0 0 0 0 0 0 0 0 0 0 0 0 0 0 0 0 0 0 1 0 0 0 0 0 0 0 0 0 1 0 0 0 
+0 0 0 0 0 0 0 0 0 0 0 0 0 0 0 0 1 0 0 0 0 0 0 0 0 0 0 0 1 0 0 0 0 0 0 0 1 0 0 0 0 0 0 0 0 0 0 0 0 0 0 0 0 0 0 0 0 0 0 
+0 0 0 0 0 0 0 0 0 0 1 0 0 0 0 1 0 0 0 0 0 0 0 0 0 0 0 0 0 0 0 0 0 0 0 0 0 0 0 0 0 0 0 0 0 0 0 0 0 0 0 0 1 0 0 0 0 0 0 
+0 0 0 0 0 0 1 0 0 0 0 0 1 0 0 0 0 0 0 0 0 0 0 0 0 0 0 0 0 0 0 0 0 0 0 0 0 0 1 0 0 0 0 0 0 0 0 0 0 0 0 0 0 0 0 0 0 0 0 
+0 0 0 0 0 0 0 0 0 1 0 0 0 0 0 0 0 1 0 0 0 0 0 0 0 0 0 0 0 0 0 0 0 0 0 0 0 0 0 0 0 0 0 0 0 0 0 0 0 1 0 0 0 0 0 0 0 0 0 
+0 0 0 0 0 0 0 0 0 0 0 0 0 0 0 0 0 0 0 0 0 0 0 0 0 0 0 0 0 0 1 0 0 0 0 0 0 0 0 0 1 0 0 0 0 0 0 0 0 0 0 0 0 0 0 0 0 0 0 
+0 0 0 0 0 0 0 0 0 0 0 0 0 0 0 0 0 0 0 0 0 0 0 0 0 0 0 1 0 0 0 0 0 0 0 0 0 0 0 0 0 0 0 0 0 0 0 0 1 0 0 0 0 0 0 0 0 0 0 
+0 0 0 0 0 0 0 0 0 0 0 0 0 0 0 0 0 0 0 0 0 0 0 0 0 0 0 0 0 0 0 0 0 0 0 0 0 0 0 0 0 0 0 0 0 0 0 0 0 0 0 0 0 0 0 0 0 0 0 
+0 0 0 0 0 0 0 0 0 0 0 1 0 0 0 0 0 0 0 0 0 0 0 0 0 0 0 0 0 0 0 0 0 0 1 0 0 0 0 0 0 0 0 0 0 0 0 0 0 0 0 0 0 0 0 0 1 0 0 
+0 0 0 0 0 0 0 0 0 0 0 0 0 0 0 0 0 0 0 0 0 0 0 0 0 0 0 0 0 0 0 0 0 0 0 0 0 0 0 0 0 0 0 0 0 0 0 0 0 0 0 0 0 0 0 0 0 0 0 
+0 0 0 0 0 0 0 0 0 0 0 0 0 0 0 0 0 0 0 0 0 0 0 0 0 0 0 0 0 0 0 0 0 0 0 0 0 0 0 0 0 0 1 0 0 0 0 0 0 0 0 0 0 0 0 0 0 0 0 
+0 0 0 0 0 0 0 0 0 0 0 0 0 0 0 0 0 0 0 1 0 0 0 0 0 0 0 0 0 0 0 0 0 0 0 1 0 0 0 0 0 1 0 0 0 0 0 0 0 0 0 1 0 1 1 0 0 0 0 
+0 0 0 0 0 0 0 0 0 0 0 0 0 0 0 0 0 0 0 0 0 0 0 0 0 0 0 0 0 0 0 0 0 0 0 0 0 0 0 0 0 0 0 0 0 0 0 0 0 0 0 0 0 0 0 0 0 0 0 
+0 0 0 0 0 0 0 0 0 0 0 0 0 0 0 0 0 0 0 0 0 0 0 1 0 0 0 0 0 0 0 0 0 0 0 0 0 0 0 0 0 0 0 1 0 0 0 0 0 0 0 0 0 0 0 0 0 0 0 
+0 0 0 0 0 0 0 0 0 0 0 0 0 0 0 0 0 0 0 0 1 0 0 0 0 0 0 0 0 0 0 0 0 0 0 0 0 0 0 0 0 0 0 0 0 0 0 0 0 0 0 0 0 0 0 0 0 0 0 
+0 0 0 0 0 0 0 0 0 0 0 0 0 0 0 0 0 0 1 0 0 0 0 0 0 0 0 0 0 0 0 0 0 0 0 0 0 0 0 0 0 0 0 0 0 0 0 0 0 0 0 0 0 0 0 0 0 0 0 
+0 0 0 0 0 0 0 0 0 0 0 0 0 0 0 0 0 0 0 0 0 0 0 0 0 0 0 0 0 0 0 0 0 0 0 0 0 0 0 0 0 0 0 0 0 0 0 0 0 0 0 0 0 0 0 0 0 0 0 
+0 0 0 0 0 0 0 0 0 0 0 0 0 0 0 0 0 0 0 0 0 0 0 0 0 0 0 0 0 1 0 0 0 0 0 0 0 0 0 0 0 0 0 0 0 0 0 0 0 0 0 0 0 0 0 0 0 0 0 
+0 0 0 0 0 0 0 0 0 0 0 0 0 0 0 0 0 0 0 0 0 0 0 0 0 0 0 0 0 0 0 0 0 0 0 0 0 0 0 0 0 0 0 0 0 0 0 0 0 0 0 0 0 0 0 0 0 0 0 
+0 0 0 0 0 0 0 0 0 0 0 0 0 0 0 0 0 0 0 0 0 0 1 0 0 0 0 0 0 0 0 0 0 0 0 0 0 0 0 0 0 0 0 0 0 0 0 0 0 0 0 0 0 0 0 0 0 0 0 
+0 0 0 0 0 0 0 0 0 0 0 0 0 0 0 0 0 0 0 0 0 0 0 0 0 0 0 0 0 0 0 0 0 0 0 0 0 0 0 0 0 0 0 0 0 0 0 0 0 0 0 0 0 0 0 0 0 0 0 
+0 0 0 0 0 0 0 0 0 0 0 0 0 0 0 0 0 0 0 0 0 0 0 0 0 0 0 0 0 0 0 0 0 0 0 0 0 0 0 0 0 0 0 0 0 0 0 0 0 0 0 0 0 0 0 0 0 0 0 
+0 0 0 0 0 0 0 0 0 0 0 0 0 0 0 0 0 0 0 0 0 0 0 0 0 1 0 0 0 0 0 0 0 0 0 0 0 0 0 0 0 0 0 0 0 0 0 0 0 0 0 0 0 0 0 0 0 0 0 
+0 0 0 0 0 0 0 0 0 0 0 0 0 0 0 0 0 0 0 0 0 0 0 0 0 0 0 0 0 0 0 0 0 0 0 0 0 0 0 0 0 0 0 0 0 0 0 0 0 0 0 0 0 0 0 0 0 0 0 
+1 0 0 0 0 0 0 0 0 0 0 0 0 0 0 0 0 0 0 0 0 0 0 0 0 0 0 0 0 0 0 0 0 0 0 0 0 0 0 0 0 0 0 0 0 0 0 0 0 0 0 0 0 0 0 0 0 0 0 
+0 0 0 0 0 0 0 0 0 0 0 0 0 0 0 0 0 0 0 0 0 0 0 0 0 0 0 0 0 0 0 0 0 0 0 0 0 0 0 0 0 0 0 0 0 0 0 0 0 0 0 0 0 0 0 0 0 0 0 
+0 0 0 0 0 0 0 0 0 0 0 0 0 0 0 0 0 0 0 0 0 1 0 0 0 0 0 0 0 0 0 0 0 0 0 0 0 0 0 0 0 0 0 0 0 0 0 0 0 0 0 0 0 0 0 0 0 0 0 
+0 0 0 0 0 0 0 0 0 0 0 0 0 0 0 0 0 0 0 0 0 0 0 0 0 0 0 0 0 0 0 0 0 0 0 0 0 0 0 0 0 0 0 0 0 0 0 0 0 0 0 0 0 0 0 0 0 0 0 
+0 0 0 0 0 0 0 0 0 0 0 0 0 0 0 0 0 0 0 0 0 0 0 0 0 0 0 0 0 0 0 1 1 0 0 0 0 0 0 0 0 0 0 0 0 0 0 0 0 0 0 0 0 0 0 0 0 0 0 
+0 0 0 0 0 0 0 0 0 0 0 0 0 0 0 0 0 0 0 0 0 0 0 0 0 0 0 0 0 0 0 0 0 0 0 0 0 0 0 0 0 0 0 0 0 0 0 0 0 0 0 0 0 0 0 0 0 0 0 
+0 0 0 0 0 0 0 0 0 0 0 0 0 0 0 0 0 0 0 0 0 0 0 0 0 0 0 0 0 0 0 0 0 0 0 0 0 0 0 0 0 0 0 0 0 0 0 0 0 0 0 0 0 0 0 0 0 0 0 
+0 0 0 0 0 0 0 0 0 0 0 0 0 0 0 0 0 0 0 0 0 0 0 0 0 0 0 0 0 0 0 0 0 0 0 0 0 0 0 0 0 0 0 0 0 0 0 0 0 0 0 0 0 0 0 0 0 0 0 
+0 0 0 0 0 0 0 0 0 0 0 0 0 0 0 0 0 0 0 0 0 0 0 0 0 0 0 0 0 0 0 0 0 0 0 0 0 0 0 0 0 0 0 0 0 0 0 0 0 0 0 0 0 0 0 0 0 0 0 
+0 0 0 0 0 0 0 0 0 0 0 0 0 0 0 0 0 0 0 0 0 0 0 0 0 0 0 0 0 0 0 0 0 0 0 0 0 0 0 0 0 0 0 0 0 0 0 0 0 0 0 0 0 0 0 0 0 0 0 
+0 0 0 0 0 0 0 0 0 0 0 0 0 0 0 0 0 0 0 0 0 0 0 0 0 0 0 0 0 0 0 0 0 0 0 0 0 1 0 0 0 0 0 0 0 0 0 0 0 0 0 0 0 0 0 0 0 1 0 
+0 0 0 0 0 0 0 0 0 0 0 0 0 0 0 0 0 0 0 0 0 0 0 0 0 0 0 0 0 0 0 0 0 0 0 0 0 0 0 0 0 0 0 0 0 0 0 0 0 0 0 0 0 0 0 0 0 0 0 
+0 0 0 0 0 0 0 0 0 0 0 0 0 0 0 0 0 0 0 0 0 0 0 0 0 0 0 0 0 0 0 0 0 0 0 0 0 0 0 1 0 0 0 0 0 0 0 0 0 0 0 0 0 0 0 0 0 0 0 
+0 0 0 0 0 0 0 0 0 0 0 0 0 0 0 0 0 0 0 0 0 0 0 0 0 0 0 0 0 0 0 0 0 0 0 0 0 0 0 0 0 0 0 0 0 0 0 0 0 0 0 0 0 0 0 0 0 0 0 
+0 0 0 0 0 0 0 0 0 0 0 0 0 0 0 0 0 0 0 0 0 0 0 0 0 0 0 0 0 0 0 0 0 0 0 0 0 0 0 0 0 0 0 0 0 0 0 0 0 0 0 0 0 0 0 0 0 0 0 
+0 0 0 0 0 0 0 0 0 0 0 0 0 0 0 0 0 0 0 0 0 0 0 0 0 0 0 0 0 0 0 0 0 0 0 0 0 0 0 0 0 0 0 0 0 0 0 0 0 0 0 0 0 0 0 0 0 0 0 
+0 0 0 0 0 0 0 0 0 0 0 0 0 0 0 0 0 0 0 0 0 0 0 0 0 0 0 0 0 0 0 0 0 0 0 0 0 0 0 0 0 0 0 0 0 0 0 0 0 0 0 0 0 0 0 0 0 0 0 
+0 0 0 0 0 0 0 0 0 0 0 0 0 0 0 0 0 0 0 0 0 0 0 0 0 0 0 0 0 0 0 0 0 0 0 0 0 0 0 0 0 0 0 0 1 0 0 0 0 0 0 0 0 0 0 0 0 0 0 
+0 0 0 0 0 0 0 0 0 0 0 0 0 0 0 0 0 0 0 0 0 0 0 0 0 0 0 0 0 0 0 0 0 0 0 0 0 0 0 0 0 0 0 0 0 0 0 0 0 0 0 0 0 0 0 0 0 0 0 
+0 0 0 0 0 0 0 0 0 0 0 0 0 0 0 0 0 0 0 0 0 0 0 0 0 0 1 0 0 0 0 0 0 0 0 0 0 0 0 0 0 0 0 0 0 0 1 1 0 0 0 0 0 0 0 0 0 0 0 
+0 0 0 0 0 0 0 0 0 0 0 0 0 0 0 0 0 0 0 0 0 0 0 0 0 0 0 0 0 0 0 0 0 0 0 0 0 0 0 0 0 0 0 0 0 0 0 0 0 0 0 0 0 0 0 0 0 0 0 
+0 0 0 0 0 0 0 0 0 0 0 0 0 0 0 0 0 0 0 0 0 0 0 0 0 0 0 0 0 0 0 0 0 0 0 0 0 0 0 0 0 0 0 0 0 0 0 0 0 0 0 0 0 0 0 0 0 0 0 
+0 0 0 0 0 0 0 0 0 0 0 0 0 0 0 0 0 0 0 0 0 0 0 0 0 0 0 0 0 0 0 0 0 0 0 0 0 0 0 0 0 0 0 0 0 0 0 0 0 0 0 0 0 0 0 0 0 0 0 
+0 0 0 0 0 0 0 0 0 0 0 0 0 0 0 0 0 0 0 0 0 0 0 0 0 0 0 0 0 0 0 0 0 0 0 0 0 0 0 0 0 0 0 0 0 0 0 0 0 0 0 0 0 0 0 0 0 0 0 
+0 0 0 0 0 0 0 0 0 0 0 0 0 0 0 0 0 0 0 0 0 0 0 0 0 0 0 0 0 0 0 0 0 0 0 0 0 0 0 0 0 0 0 0 0 0 0 0 0 0 0 0 0 0 0 0 0 0 1 
+0 0 0 0 0 0 0 0 0 0 0 0 0 0 0 0 0 0 0 0 0 0 0 0 0 0 0 0 0 0 0 0 0 0 0 0 0 0 0 0 0 0 0 0 0 0 0 0 0 0 0 0 0 0 0 0 0 0 0 
+0 0 0 0 0 0 0 0 0 0 0 0 0 0 0 0 0 0 0 0 0 0 0 0 0 0 0 0 0 0 0 0 0 0 0 0 0 0 0 0 0 0 0 0 0 0 0 0 0 0 0 0 0 0 0 0 0 0 0 
+0 0 0 0 0 0 0 0 0 0 0 0 0 0 0 0 0 0 0 0 0 0 0 0 0 0 0 0 0 0 0 0 0 0 0 0 0 0 0 0 0 0 0 0 0 0 0 0 0 0 0 0 0 0 0 0 0 0 0 
+0 0 0 0 0 0 0 0 0 0 0 0 0 0 0 0 0 0 0 0 0 0 0 0 0 0 0 0 0 0 0 0 0 0 0 0 0 0 0 0 0 0 0 0 0 0 0 0 0 0 0 0 0 0 0 0 0 0 0 
+0 0 0 0 0 0 0 0 0 0 0 0 0 0 0 0 0 0 0 0 0 0 0 0 0 0 0 0 0 0 0 0 0 0 0 0 0 0 0 0 0 0 0 0 0 0 0 0 0 0 0 0 0 0 0 0 0 0 0 
+0 0 0 0 0 0 0 0 0 0 0 0 0 0 0 0 0 0 0 0 0 0 0 0 0 0 0 0 0 0 0 0 0 0 0 0 0 0 0 0 0 0 0 0 0 0 0 0 0 0 0 0 0 0 0 0 0 0 0 
+0 0 0 0 0 0 0 0 0 0 0 0 0 0 0 0 0 0 0 0 0 0 0 0 1 0 0 0 0 0 0 0 0 0 0 0 0 0 0 0 0 0 0 0 0 0 0 0 0 0 0 0 0 0 0 0 0 0 0 
+0 0 0 0 0 0 0 0 0 0 0 0 0 0 0 0 0 0 0 0 0 0 0 0 0 0 0 0 0 0 0 0 0 0 0 0 0 0 0 0 0 0 0 0 0 0 0 0 0 0 0 0 0 0 0 0 0 0 0 
 """
 
 
@@ -263,4 +208,4 @@ if __name__ == "__main__":
     plt.axis('equal')  # Equal scaling of axes
 
     # Show the plot
-    plt.savefig("./out2-2.png")
+    plt.savefig("./env1box.png")

diff --git a/Notes.md b/Notes.md
@@ -9,6 +9,19 @@ Presumably Planner is a field that's public in the Planner class.
 
 Code:
 - Square robot is set to a side length of 0.5
+- For env1point ... \
+Generated Start: (5.31718,8.78763)\
+Generated Goal: (-3.37481,-9.77697)
+- For env1box   ... \
+Generated Start: (4.80789, 6.55316, 0.496718)\
+Generated Goal: (4.45794, -8.17775, -2.15407)
+- For env2point ... \
+Generated Start: (6.92782,-4.96663)\
+Generated Goal: (-3.85608,5.30082)
+- For env2box   ... \
+Generated Start: (2.29839, -8.14192, -2.23593)\
+Generated Goal: (6.1286, 9.96771, -2.33564)
+
 
 TODOs:
 - Switch out the nn data structure.
